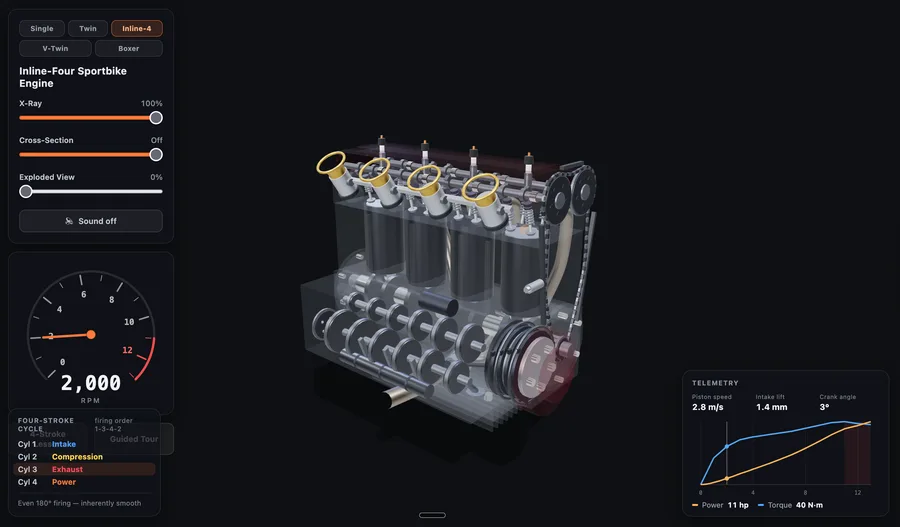
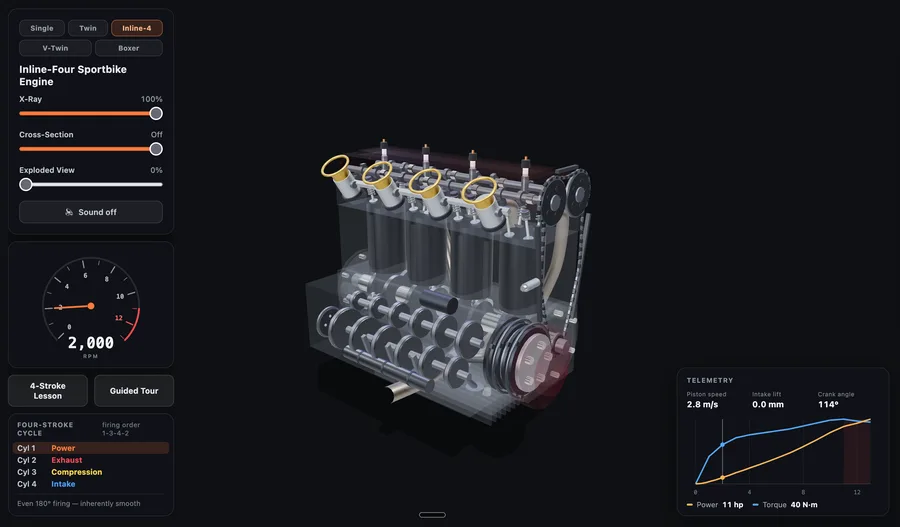
Replace the Motorcycle Engines preview image
Claude-Session: https://claude.ai/code/session_01UZS83pgd8qT9w7QUw6zbHW

diff --git a/js/data.js b/js/data.js
@@ -222,8 +222,8 @@ export const FUN = [
     cta: "Explore the Engine",
     image: `${IMG}/previews/motorcycle-engines.webp`,
     thumb: `${IMG}/previews/motorcycle-engines-sm.webp`,
-    aspect: 2710 / 1588,
-    alt: "A 3D four-cylinder motorcycle engine rendered in translucent glass on a dark background",
+    aspect: 2710 / 1586,
+    alt: "Interactive inline-four motorcycle engine in X-ray view, with engine-type controls, a tachometer at 2,000 rpm, and a telemetry chart",
     focus: [0.5, 0.52],
     zoom: 1.21,
     sections: [
